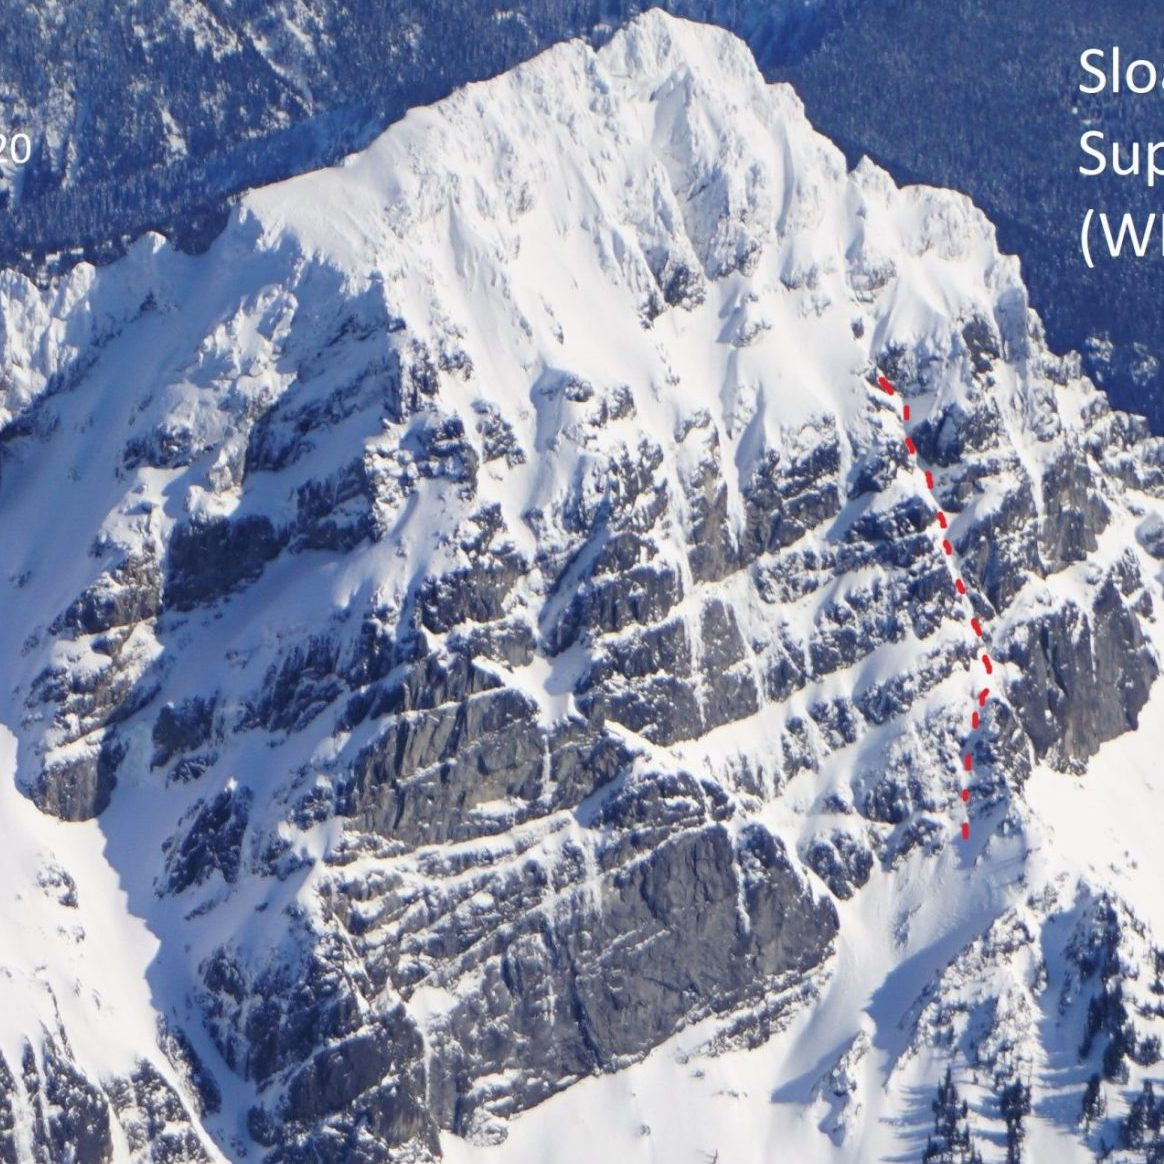
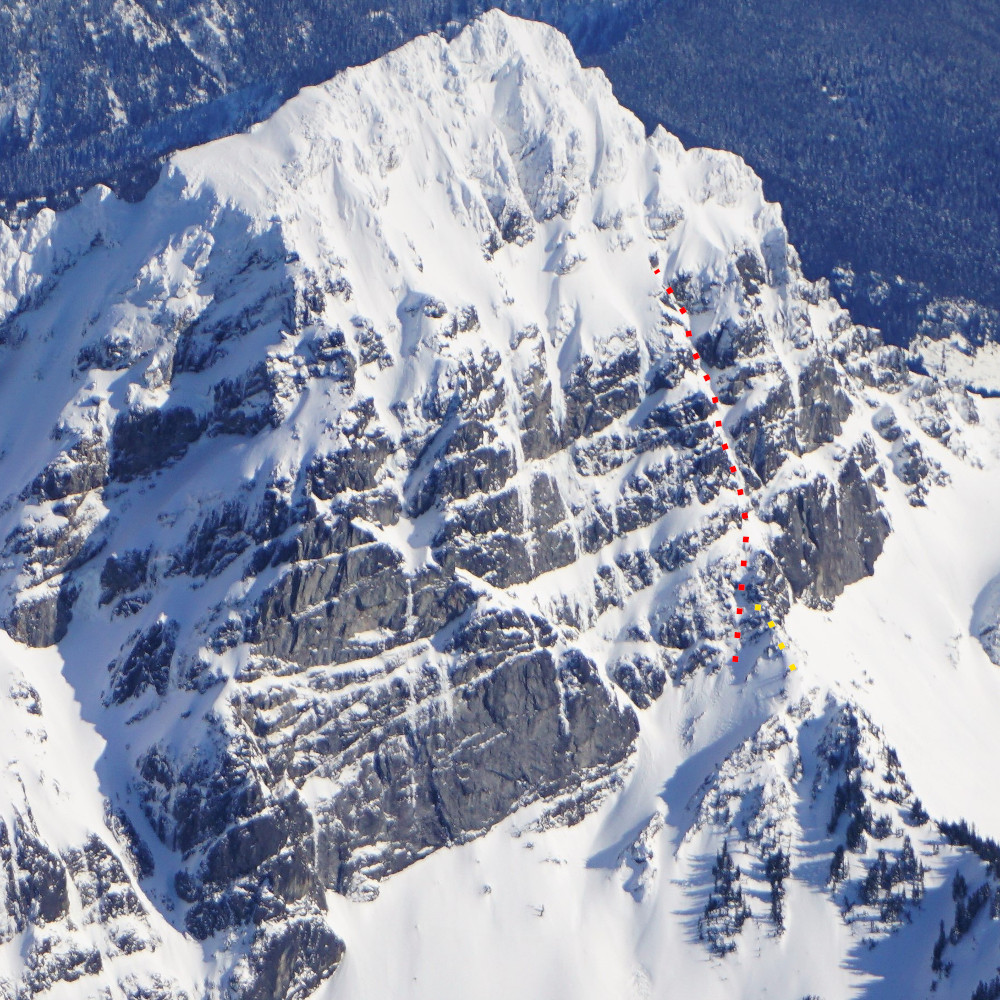
added images to hot tubbs and superalpine, changed to alpine grading system

diff --git a/public/routes/routes.js b/public/routes/routes.js
@@ -1,38 +1,38 @@
 export const routes = [
     {
-        "rid": "superalpine",
-        "name": "Superalpine",
-        "peak": "Sloan Peak",
-        "region": "Mountain Loop",
-        "grade": "WI3-4",
-        "length": "1000'",
-        "difficulty": "Moderate",
-        "stars": 4,
-        "commitment": "Moderate",
-        "avalanche": "High",
-        "approach": "4-6 hours",
-        "season": "December - March",
-        "fa": "Porter McMichael, Kyle McCrohan, Tavish Hansen, February 2020",
-        "map": "https://caltopo.com/m/BALJ",
-        "coordinates":[-121.3427,48.04097],
-        "contributors":["KM"]
+        rid: "superalpine",
+        name: "Superalpine",
+        peak: "Sloan Peak",
+        region: "Mountain Loop",
+        grade: "WI3-4",
+        length: "1000'",
+        difficulty: "D",
+        stars: 4,
+        commitment: "III",
+        avalanche: "High",
+        approach: "4-6 hours",
+        season: "December - March",
+        fa: "Porter McMichael, Kyle McCrohan, Tavish Hansen, February 2020",
+        map: "https://caltopo.com/m/BALJ",
+        coordinates:[-121.3427,48.04097],
+        contributors:["KM"]
     },
     {
-        "rid": "hot-tubbs",
-        "name": "Hot Tubbs",
-        "peak": "Bryant Peak",
-        "region": "I90",
-        "grade": "WI4",
-        "length": "500'",
-        "difficulty": "Easy",
-        "stars": 2,
-        "commitment": "Low",
-        "avalanche": "Moderate",
-        "approach": "2-3 hours",
-        "season": "January - March",
-        "fa": "Jacob Krantz, Kyle McCrohan, January 2019",
-        "map": "https://caltopo.com/m/GU3T",
-        "coordinates":[-121.46193,47.45114],
-        "contributors":["KM"]
+        rid: "hot-tubbs",
+        name: "Hot Tubbs",
+        peak: "Bryant Peak",
+        region: "I90",
+        grade: "WI4",
+        length: "600'",
+        difficulty: "AD",
+        stars: 2,
+        commitment: "II",
+        avalanche: "Moderate",
+        approach: "2-3 hours",
+        season: "January - March",
+        fa: "Jacob Krantz, Kyle McCrohan, January 2019",
+        map: "https://caltopo.com/m/GU3T",
+        coordinates:[-121.46193,47.45114],
+        contributors:["KM"]
     }
 ]

diff --git a/components/RouteStats.js b/components/RouteStats.js
@@ -14,10 +14,10 @@ export default function RouteStats({route}) {
             <Content>
                 <h2>Route Stats</h2>
                 <Stars numStars={route.stars} style={{position: 'absolute', top: '30px', right: '30px', zIndex: '1'}}/>
-                <RouteStat stat="Difficulty" value={route.difficulty} info="Overall measure of route difficulty"/>
+                <RouteStat stat="Difficulty" value={route.difficulty} info="Overall measure of route difficulty. PD=a little difficult, AD: fairly hard, D=difficult, TD=very difficult, ED=extremely difficult."/>
                 <RouteStat stat="Technical Grade" value={route.grade} info="Grade of route crux"/>
                 <RouteStat stat="Length" value={route.length} info="Height of technical portion of route"/>
-                <RouteStat stat="Commitment" value={route.commitment} info="Reflects difficulty to bail, length, etc"/>
+                <RouteStat stat="Commitment" value={route.commitment} info="Expected time to complete technical climb; I=1-2hrs, II=2-4hrs, III=most of a day, IV=full day, V=day+."/>
                 <RouteStat stat="Avalanche Hazard" value={route.avalanche} info="Overall measure of avalanche hazard"/>
                 <RouteStat stat="Approach" value={route.approachTime} info="Estimated approach time in normal conditions"/>
                 <RouteStat stat="Region" value={route.region} info="General region of access for climb"/>

diff --git a/public/routes/superalpine/images/images.js b/public/routes/superalpine/images/images.js
@@ -1,14 +1,26 @@
 export const images = [
     {
-        "src": "cover.jpg",
-        "caption": "Porter ascends the first and crux pitch on superalpine."
+        src: "cover.jpg",
+        caption: "Porter climbs the first and crux pitch of superalpine."
     },
     {
-        "src": "topo.jpg",
-        "caption": "Route overlay from a plane. PC: Shane Lescher"
+        src: "face.jpg",
+        caption: "Superalpine climbs the flow on the right side of the west face in this photo."
     },
     {
-        "src": "img2.jpg",
-        "caption": "Another sendy photo."
+        src: "sunrise.jpg",
+        caption: "Sunrise on the Monte Cristo peaks from the base of the route."
+    },
+    {
+        src: "walking.jpg",
+        caption: "After the first pitch, walking to the base of the main gully."
+    },
+    {
+        src: "climbing.jpg",
+        caption: "Cruising through fat ice in the middle section of the route."
+    },
+    {
+        src: "topo.jpg",
+        caption: "The west face of sloan. Route in red, optional start in yellow (bypasses first half of first pitch). Create your own adventure in the upper snowfields."
     }
 ]

diff --git a/public/routes/hot-tubbs/images/images.js b/public/routes/hot-tubbs/images/images.js
@@ -1,10 +1,22 @@
 export const images = [
     {
-        "src": "cover.jpg",
-        "caption": "Jacob approaches the first and second pitches."
+        src: "cover.jpg",
+        caption: "Jacob approaches the first and second pitches."
     },
     {
-        "src": "topo.jpg",
-        "caption": "Hot Tubbs route topo. The final pitch is on the backside and cannot be seen."
+        src: "summit.jpg",
+        caption: "Summit views, Kaleetan and Chair behind."
+    },
+    {
+        src: "pitch1.jpg",
+        caption: "Crux first pitch."
+    },
+    {
+        src: "snow.jpg",
+        caption: "Steep snow on the third pitch."
+    },
+    {
+        src: "topo.jpg",
+        caption: "Hot Tubbs route topo. The final pitch is on the backside and cannot be seen."
     }
 ]
